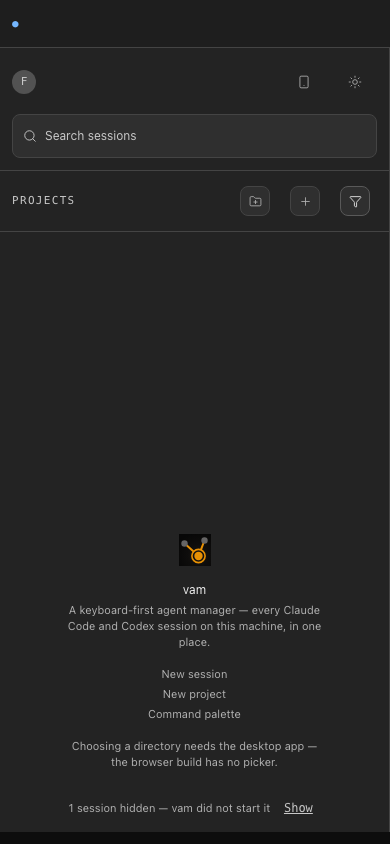
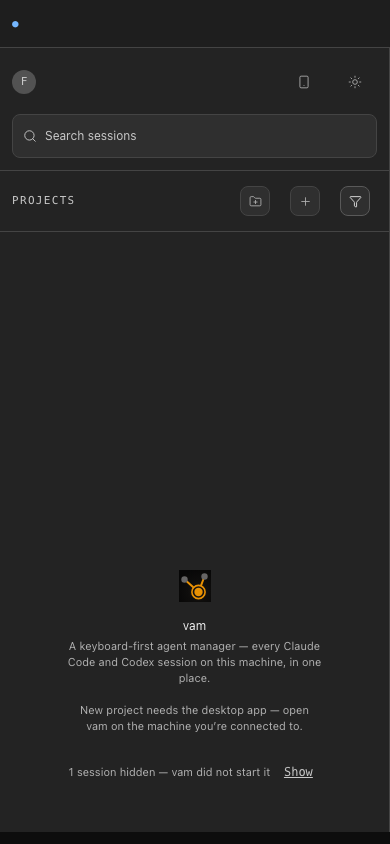
fix(canvas): the getting-started screen's own review findings
Four fixes from a review of the committed screenshots:

- Desktop shortcut list contradicted itself: "New session · o" beside
  "New project · ⇧⌘P" on a screen where `o` starts a PROJECT, not a
  session (Canvas.tsx's own newSession-chord fallback). GettingStarted now
  draws two rows -- "New project" carrying both its chords (o, and ⇧⌘P
  when still bound) and "Command palette" -- via StartShortcuts's new
  per-row `actions` list. TerminalOnlyStart's own three rows (New session,
  New project, Command palette) are unchanged: a real session's pane is
  genuinely a different act.

- The tab strip's "no sessions open — pick one from the sidebar" pointed
  at a sidebar with nothing to pick, when the whole app has no session
  anywhere. TabStrip takes an optional `emptyText`, defaulted to the
  existing sentence for every other caller; Canvas.tsx overrides it to
  "no sessions yet" (the sidebar's own words) exactly when
  `entries.length === 0` -- the same signal the getting-started screen
  itself reads.

- The phone's shortcut rows drew three bare words with no chord chip
  beside any of them (InlineChord paints nothing on a phone) -- a hint a
  touch screen cannot use. GettingStarted now takes a `phone` prop and
  withdraws StartShortcuts entirely there.

- The phone's "browser build has no picker" sentence was true of every
  phone (a phone always IS the browser build) and pointed nowhere an
  operator holding one can act. Phone-specific copy now names what does
[…]

diff --git a/src/renderer/panels/GettingStarted.tsx b/src/renderer/panels/GettingStarted.tsx
@@ -1,27 +1,63 @@
 /**
- * TWO SCREENS, ONE SHORTCUT LIST. `TerminalOnlyStart` (`DetailPanel.tsx`) is
- * one PANE's own getting-started screen -- a `terminal` row whose agent
- * exited but whose conversation vam still knows. `GettingStarted` below is
- * the WHOLE APP's -- vam has no session to show anywhere, on first launch or
- * with every row hidden by `hideForeign` (PR 456's own origin filter). Both
- * end the same three-row sentence ("here is how you make something"), and
- * `StartShortcuts` is the one place that sentence is written, read live off
- * the chord table (`InlineChord`, `chords.ts`'s `primaryChord`) so a rebind
- * cannot leave either screen naming a key that does nothing. Copying the
- * `<ul>` a second time was the alternative, and it is exactly the drift this
- * file exists to make impossible: a change to the three actions, or to their
- * order, would then have to land twice to stay true on both screens, and
- * nothing would fail if it only landed on one.
+ * TWO SCREENS, ONE SHORTCUT-ROW RENDERER. `TerminalOnlyStart` (`DetailPanel.
+ * tsx`) is one PANE's own getting-started screen -- a `terminal` row whose
+ * agent exited but whose conversation vam still knows. `GettingStarted`
+ * below is the WHOLE APP's -- vam has no session to show anywhere, on first
+ * launch or with every row hidden by `hideForeign` (PR 456's own origin
+ * filter). Both draw a short list of "here is how you make something" rows
+ * read live off the chord table (`InlineChord`, `chords.ts`'s
+ * `primaryChord`), through the ONE `StartShortcuts` renderer, so a rebind
+ * cannot leave either screen naming a key that does nothing.
+ *
+ * THE ROWS ARE NOT THE SAME LIST. `TerminalOnlyStart`'s row is a real
+ * session's own pane: `o`/`Mod-n` starts a SECOND session in that project,
+ * genuinely distinct from `newProject`'s own `Mod-Shift-p`, so it keeps its
+ * own three rows -- New session, New project, Command palette -- unchanged.
+ * `GettingStarted`'s row is not a session at all: `Canvas.tsx`'s own
+ * `case 'newSession'` falls back to `newProject()` here because there is no
+ * focused project to add a session TO, so `o` and `Mod-Shift-p` do the
+ * IDENTICAL act on THIS screen. A row reading "New session · o" beside one
+ * reading "New project · ⇧⌘P" would have told the operator two different
+ * things happen on two different keys when only one thing does -- the
+ * operator's own finding, reading the first screenshot. So this screen
+ * collapses both chords onto one "New project" row and drops the session
+ * row entirely; `StartShortcuts` takes a row's actions as a LIST for exactly
+ * this, and a second, now-unbound chord simply draws no chip
+ * (`InlineChord`'s own absent-not-disabled rule) rather than needing a
+ * second component.
  */
 
 import { FolderPlus } from 'lucide-react';
 import type { KeyAction } from '../keyboard/chords.js';
 import { InlineChord } from '../keyboard/ShortcutTip.js';
 
-const START_SHORTCUTS: readonly { readonly label: string; readonly action: KeyAction }[] = [
-  { label: 'New session', action: { kind: 'newSession' } },
-  { label: 'New project', action: { kind: 'newProject' } },
-  { label: 'Command palette', action: { kind: 'palette' } },
+export type StartShortcutRow = {
+  readonly label: string;
+  /**
+   * One chip per action, in order. Usually one action; `GettingStarted`'s
+   * own "New project" row is two, because `o` and `Mod-Shift-p` both reach
+   * it from this screen and neither chord deserves to be left unmentioned.
+   * An action with no current binding draws no chip at all (`InlineChord`),
+   * so a row can shrink to nothing wider than its label without this
+   * component needing to know why.
+   */
+  readonly actions: readonly KeyAction[];
+};
+
+/** `TerminalOnlyStart`'s three rows, unchanged since before this file
+ *  existed -- a real session's own pane, where New session genuinely
+ *  differs from New project. */
+export const TERMINAL_ONLY_SHORTCUT_ROWS: readonly StartShortcutRow[] = [
+  { label: 'New session', actions: [{ kind: 'newSession' }] },
+  { label: 'New project', actions: [{ kind: 'newProject' }] },
+  { label: 'Command palette', actions: [{ kind: 'palette' }] },
+];
+
+/** `GettingStarted`'s two rows -- see this file's own header for why New
+ *  session is not one of them here, and why New project carries two chips. */
+export const GETTING_STARTED_SHORTCUT_ROWS: readonly StartShortcutRow[] = [
+  { label: 'New project', actions: [{ kind: 'newSession' }, { kind: 'newProject' }] },
+  { label: 'Command palette', actions: [{ kind: 'palette' }] },
 ];
 
 /**
@@ -31,16 +67,25 @@ const START_SHORTCUTS: readonly { readonly label: string; readonly action: KeyAc
  * expects -- `DetailPanel.terminal-only.test.tsx` predates this file and its
  * selector is untouched.
  */
-export function StartShortcuts({ testId }: { readonly testId: string }) {
+export function StartShortcuts({
+  rows,
+  testId,
+}: {
+  readonly rows: readonly StartShortcutRow[];
+  readonly testId: string;
+}) {
   return (
     <ul {...{ [`data-${testId}`]: '' }} className="flex flex-col gap-1 text-meta text-ink-quiet">
-      {START_SHORTCUTS.map((item) => (
-        <li key={item.action.kind} className="flex items-center justify-center gap-2">
-          <span>{item.label}</span>
-          <InlineChord
-            action={item.action}
-            className="rounded-[4px] border border-line-strong px-1 py-px font-mono text-ink-dim"
-          />
+      {rows.map((row) => (
+        <li key={row.label} className="flex items-center justify-center gap-2">
+          <span>{row.label}</span>
+          {row.actions.map((action) => (
+            <InlineChord
+              key={action.kind}
+              action={action}
+              className="rounded-[4px] border border-line-strong px-1 py-px font-mono text-ink-dim"
+            />
+          ))}
         </li>
       ))}
     </ul>
@@ -83,6 +128,27 @@ export type GettingStartedProps = {
   readonly foreignHiddenCount: number;
   /** The SAME pref the sidebar's own "Show" flips -- `hideForeign: false`. */
   readonly onShowForeign: () => void;
+  /**
+   * True only for `SessionList.tsx`'s own phone instance of this screen --
+   * absent (falsy) for the desktop's, which is what `DetailPanel.tsx` mounts
+   * and never sets it. Two consequences, both about what a touchscreen
+   * cannot use:
+   *
+   *  1. THE SHORTCUT ROWS ARE WITHDRAWN. `InlineChord` draws nothing on a
+   *     phone at all (`styles.css`'s `.vam-phone [data-inline-chord]`), so
+   *     `StartShortcuts` on a phone was three or four bare words -- "New
+   *     project", "Command palette" -- naming keys a touch operator has no
+   *     way to press. A hint with no hint in it is not a smaller hint, it is
+   *     noise, so the whole list is absent rather than drawn empty-handed.
+   *  2. NO DIRECTORY PICKER MEANS SOMETHING DIFFERENT HERE. The desktop's
+   *     "the browser build has no picker" is a fact about THIS build; a
+   *     phone reaches vam over Tailscale Serve (`docs/design/...`, the
+   *     operator's own mobile rule) -- a browser build BY DEFINITION, so the
+   *     sentence would be true but point nowhere an operator holding a phone
+   *     can act on. The phone's own copy says what DOES exist instead: the
+   *     desktop app, on the machine this phone is connected to.
+   */
+  readonly phone?: boolean;
 };
 
 /**
@@ -107,6 +173,7 @@ export function GettingStarted({
   hasDirectoryPicker,
   foreignHiddenCount,
   onShowForeign,
+  phone = false,
 }: GettingStartedProps) {
   const canCreate = newProjectDecline === null && hasDirectoryPicker;
   return (
@@ -127,7 +194,11 @@ export function GettingStarted({
           one place.
         </p>
       </div>
-      <StartShortcuts testId="getting-started-shortcuts" />
+      {/* WITHDRAWN ON A PHONE -- see `phone`'s own comment: a touch screen
+          cannot press a chord, so a list of bare labels is noise, not help. */}
+      {!phone && (
+        <StartShortcuts testId="getting-started-shortcuts" rows={GETTING_STARTED_SHORTCUT_ROWS} />
+      )}
       {canCreate ? (
         <button
           type="button"
@@ -142,12 +213,15 @@ export function GettingStarted({
         // ABSENT, NOT DISABLED (`onStartSession`'s own rule, `DetailPanel.tsx`):
         // a control that cannot act is withdrawn, and the sentence that
         // replaces it says what DOES work here. `newProjectDecline` -- a
-        // source-level refusal -- takes priority in its own words; the
-        // picker's absence is the one case this screen has anything of its
-        // own to say, because `newSessionRoute` never learned about it.
+        // source-level refusal -- takes priority in its own words, on either
+        // surface; the picker's absence is the one case this screen has
+        // anything of its OWN to say, and what it says depends on which
+        // surface is asking -- see `phone`'s own comment.
         <p data-getting-started-decline className="max-w-[36ch] text-meta text-ink-quiet">
           {newProjectDecline ??
-            'Choosing a directory needs the desktop app — the browser build has no picker.'}
+            (phone
+              ? 'New project needs the desktop app — open vam on the machine you’re connected to.'
+              : 'Choosing a directory needs the desktop app — the browser build has no picker.')}
         </p>
       )}
       {foreignHiddenCount > 0 && (

diff --git a/test/panels/DetailPanel.getting-started.test.tsx b/test/panels/DetailPanel.getting-started.test.tsx
@@ -152,7 +152,18 @@ describe('the getting-started screen -- vam has no session to show anywhere', ()
     );
   });
 
-  it('lists New session, New project and the command palette, each with ITS OWN current chord', () => {
+  /**
+   * NEVER "New session" ON THIS SCREEN. There is no focused project for `o`
+   * to add a session to here -- `Canvas.tsx`'s own `case 'newSession'` falls
+   * back to `newProject()` in exactly this state -- so a row reading "New
+   * session · o" beside one reading "New project · ⇧⌘P" would tell the
+   * operator two different keys do two different things when both do the
+   * identical one. This screen collapses them into ONE "New project" row
+   * carrying both chords (asserted per chip, not as flattened text, so a
+   * chip silently going missing cannot hide behind the label still being on
+   * screen).
+   */
+  it('lists New project (carrying BOTH its chords) and the command palette -- never New session', () => {
     draw({
       gettingStarted: {
         onNewProject: () => {},
@@ -164,17 +175,28 @@ describe('the getting-started screen -- vam has no session to show anywhere', ()
     });
     const list = q('[data-getting-started-shortcuts]');
     expect(list).not.toBeNull();
+    expect(list?.textContent).not.toContain('New session');
     const rows = [...(list?.querySelectorAll('li') ?? [])];
-    const actions = [{ kind: 'newSession' }, { kind: 'newProject' }, { kind: 'palette' }] as const;
-    expect(rows).toHaveLength(actions.length);
-    actions.forEach((action, index) => {
-      const chord = primaryChord(action);
-      expect(chord, `${action.kind} must be bound for this to test anything`).not.toBeNull();
-      const chip = rows[index]?.querySelector('[data-inline-chord]');
-      expect(chip?.textContent, `row ${index} (${action.kind})`).toBe(
-        chordSymbols(chord as string),
-      );
-    });
+    expect(rows).toHaveLength(2);
+
+    const [newProjectRow, paletteRow] = rows;
+    expect(newProjectRow?.textContent).toContain('New project');
+    const newSessionChord = primaryChord({ kind: 'newSession' });
+    const newProjectChord = primaryChord({ kind: 'newProject' });
+    expect(newSessionChord, 'newSession must be bound for this to test anything').not.toBeNull();
+    const chips = [...(newProjectRow?.querySelectorAll('[data-inline-chord]') ?? [])].map(
+      (c) => c.textContent,
+    );
+    const expectedChips = [chordSymbols(newSessionChord as string)];
+    if (newProjectChord !== null) expectedChips.push(chordSymbols(newProjectChord));
+    expect(chips).toEqual(expectedChips);
+
+    expect(paletteRow?.textContent).toContain('Command palette');
+    const paletteChord = primaryChord({ kind: 'palette' });
+    expect(paletteChord, 'palette must be bound for this to test anything').not.toBeNull();
+    expect(paletteRow?.querySelector('[data-inline-chord]')?.textContent).toBe(
+      chordSymbols(paletteChord as string),
+    );
   });
 
   it('says nothing about hidden sessions when none are hidden', () => {

diff --git a/src/renderer/canvas/Canvas.tsx b/src/renderer/canvas/Canvas.tsx
@@ -1044,6 +1044,7 @@ function TabStrip({
   onTabContextMenu,
   onTabDragStart,
   onTabDragEnd,
+  emptyText = 'no sessions open — pick one from the sidebar',
 }: {
   readonly orientation: 'horizontal' | 'vertical';
   readonly tabs: readonly SessionEntry[];
@@ -1105,6 +1106,19 @@ function TabStrip({
     sessionId: string,
   ) => (event: ReactDragEvent<HTMLButtonElement>) => void;
   readonly onTabDragEnd?: () => void;
+  /**
+   * WHAT THE STRIP SAYS WITH NOTHING OPEN, when there is something else on
+   * screen to point at — "no sessions open — pick one from the sidebar" is
+   * only honest while the sidebar actually HAS a row to pick, which is every
+   * caller but one: the getting-started screen's own empty app, where
+   * `Canvas.tsx` overrides this to "no sessions yet" (the sidebar's own
+   * words for the identical fact, `SessionList.tsx`'s empty-state `<li>`) --
+   * pointing the operator at a sidebar that has nothing either would be the
+   * same false lead the detail pane's plain "no session" text was pulled for
+   * (audit F9). Optional and defaulted so every existing caller keeps its
+   * own sentence unchanged.
+   */
+  readonly emptyText?: string;
 }) {
   /** One right-click handler per tab, shared by its two buttons so they cannot
    *  drift, and `undefined` when the caller offered no menu -- which leaves the
@@ -1194,7 +1208,7 @@ function TabStrip({
         data-orientation={orientation}
         className="flex min-w-0 shrink items-center whitespace-nowrap px-1 text-control text-ink-faint"
       >
-        no sessions open — pick one from the sidebar
+        {emptyText}
       </div>
     );
   }
@@ -6883,6 +6897,13 @@ function CanvasInner({
               paneFocused={isFocused}
               drafts={draftsBySession}
               pending={pending}
+              // See `emptyText`'s own comment: "pick one from the sidebar" is
+              // only true while the sidebar has a row to pick. `entries` is
+              // the SAME filtered set `gettingStarted`'s own condition reads
+              // a few hundred lines below -- the operator's own finding,
+              // reading the first screenshot, was this line contradicting
+              // that screen's "no sessions yet" 40px below it.
+              emptyText={entries.length === 0 ? 'no sessions yet' : undefined}
               onSelect={(sessionId, viaPointer) => {
                 // The pane whose strip was clicked is the pane the keyboard
                 // moves to FIRST: `setFocusedPaneId` writes its ref
@@ -6946,6 +6967,7 @@ function CanvasInner({
       focusedPaneId,
       focusedEntry,
       allEntries,
+      entries,
       entriesById,
       activeProjectId,
       buildDetailProps,

diff --git a/test/panels/SessionList.test.tsx b/test/panels/SessionList.test.tsx
@@ -1072,6 +1072,30 @@ describe('the foreign-hidden quiet line', () => {
   });
 });
 
+/**
+ * TWO THINGS A PHONE'S OWN GETTING-STARTED SCREEN GETS WRONG IF IT JUST
+ * COPIES THE DESKTOP'S: a shortcut list naming keys nothing on a touch
+ * screen can press, and a "the browser build has no picker" sentence that
+ * is true of EVERY phone (a phone is a browser build, always) and points
+ * nowhere an operator holding one can act. Both were caught by eye on the
+ * committed screenshot (`docs/ui/getting-started-phone.png`) before being
+ * pinned here.
+ */
+describe('the phone’s own getting-started screen', () => {
+  it('withdraws the shortcut rows -- a touch screen cannot press a chord', () => {
+    const { container } = mountWith([], { phone: true, hasDirectoryPicker: true });
+    expect(container.querySelector('[data-getting-started]')).not.toBeNull();
+    expect(container.querySelector('[data-getting-started-shortcuts]')).toBeNull();
+  });
+
+  it('says the phone-accurate sentence when there is no picker, not the desktop’s "browser build" one', () => {
+    const { container } = mountWith([], { phone: true, hasDirectoryPicker: false });
+    const decline = container.querySelector('[data-getting-started-decline]');
+    expect(decline?.textContent).toContain('desktop app');
+    expect(decline?.textContent).not.toContain('browser build');
+  });
+});
+
 describe('the filter badge yellow, in styles.css', () => {
   const CSS = readFileSync(resolve(process.cwd(), 'src/renderer/styles.css'), 'utf8');
   const block = (selector: string) => {

diff --git a/test/canvas/Canvas.getting-started.test.tsx b/test/canvas/Canvas.getting-started.test.tsx
@@ -137,6 +137,25 @@ describe('the getting-started screen, wired from Canvas', () => {
     expect(document.querySelector('[data-getting-started-hidden]')).toBeNull();
   });
 
+  /**
+   * "PICK ONE FROM THE SIDEBAR" IS A LIE WITH NOTHING TO PICK. The strip's
+   * own empty-state sentence is right for a pane a split emptied while
+   * OTHER sessions sit in the sidebar (`Canvas.pane-tabs.test.tsx`); it
+   * contradicted the getting-started screen 40px below it the moment the
+   * whole app was empty -- the operator's own finding, reading the first
+   * screenshot. `entries.length === 0` is the SAME signal `gettingStarted`
+   * reads, so the two can never disagree about whether there is a sidebar
+   * row to point at.
+   */
+  it('the tab strip says "no sessions yet", never "pick one from the sidebar", with nothing to pick', () => {
+    const { source } = sourceWith(true);
+    withDialog(async () => CHOSEN);
+    render(<Canvas model={EMPTY_MODEL} source={source} />);
+    const strip = document.querySelector('[data-tab-strip]');
+    expect(strip?.textContent).toBe('no sessions yet');
+    expect(strip?.textContent).not.toContain('pick one from the sidebar');
+  });
+
   it('shows, with the hidden-count line, when every session is foreign', () => {
     const { source } = sourceWith(true);
     withDialog(async () => CHOSEN);

diff --git a/src/renderer/panels/DetailPanel.tsx b/src/renderer/panels/DetailPanel.tsx
@@ -178,7 +178,12 @@ import { copyText } from './clipboard.js';
 import { type ComposerImage, readPastedImages, spliceDraft } from './composer-paste.js';
 import { type DictationHandle, dictationAvailable, startDictation } from './dictation.js';
 import type { FileOpenRequest } from './FilesTab.js';
-import { GettingStarted, type GettingStartedProps, StartShortcuts } from './GettingStarted.js';
+import {
+  GettingStarted,
+  type GettingStartedProps,
+  StartShortcuts,
+  TERMINAL_ONLY_SHORTCUT_ROWS,
+} from './GettingStarted.js';
 import {
   MODEL_CHOICES,
   modelButtonLabel,
@@ -2926,7 +2931,7 @@ function TerminalOnlyStart({
           {' — its agent isn’t running here now; this pane is at a shell prompt.'}
         </p>
       </div>
-      <StartShortcuts testId="terminal-only-shortcuts" />
+      <StartShortcuts testId="terminal-only-shortcuts" rows={TERMINAL_ONLY_SHORTCUT_ROWS} />
       {onStart !== undefined && (
         <ProviderStartControls defaultProvider={defaultProvider} onStart={onStart} />
       )}

diff --git a/src/renderer/panels/SessionList.tsx b/src/renderer/panels/SessionList.tsx
@@ -3840,6 +3840,7 @@ export const SessionList = memo(function SessionList(props: SessionListProps) {
           hasDirectoryPicker={hasDirectoryPicker}
           foreignHiddenCount={foreignHiddenCount}
           onShowForeign={() => onOriginFilters({ ...originFilters, hideForeign: false })}
+          phone
         />
       )}
     </aside>
